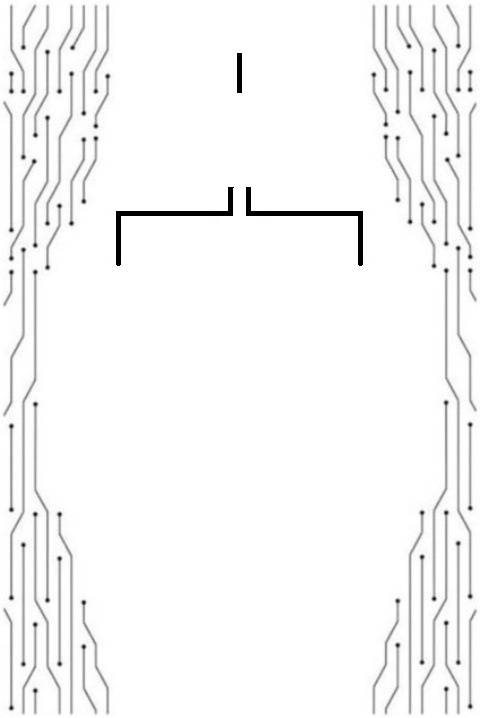
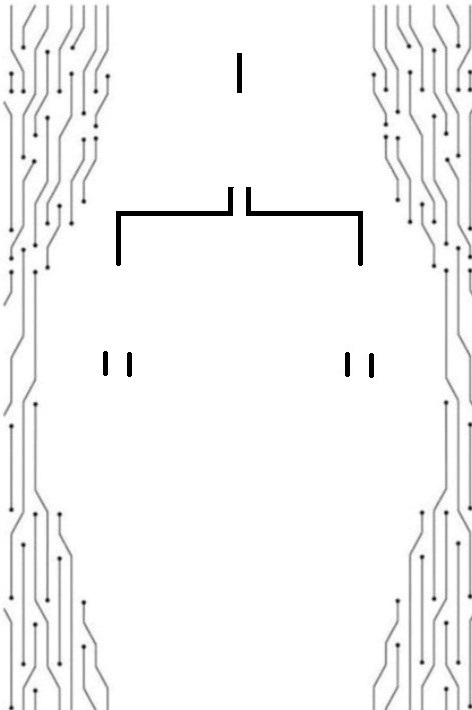
27/06/2022 Inputs por pantalla y patas puertas logicas

diff --git a/tmp.py b/tmp.py
@@ -175,19 +175,19 @@ def main():
         lista_todos_sprites.draw(SCREEN)
 
         input1 = get_font(15).render(in1, True, "#b68f40")
-        input1_RECT = input1.get_rect(center=(100, 380))
+        input1_RECT = input1.get_rect(center=(105, 390))
         SCREEN.blit(input1, input1_RECT)
 
         input2 = get_font(15).render(in2, True, "#b68f40")
-        input2_RECT = input2.get_rect(center=(130, 380))
+        input2_RECT = input2.get_rect(center=(130, 390))
         SCREEN.blit(input2, input2_RECT)
 
         input3 = get_font(15).render(in3, True, "#b68f40")
-        input3_RECT = input3.get_rect(center=(350, 380))
+        input3_RECT = input3.get_rect(center=(348, 390))
         SCREEN.blit(input3, input3_RECT)
 
         input4 = get_font(15).render(in4, True, "#b68f40")
-        input4_RECT = input4.get_rect(center=(375, 380))
+        input4_RECT = input4.get_rect(center=(370, 390))
         SCREEN.blit(input4, input4_RECT)
 
 
